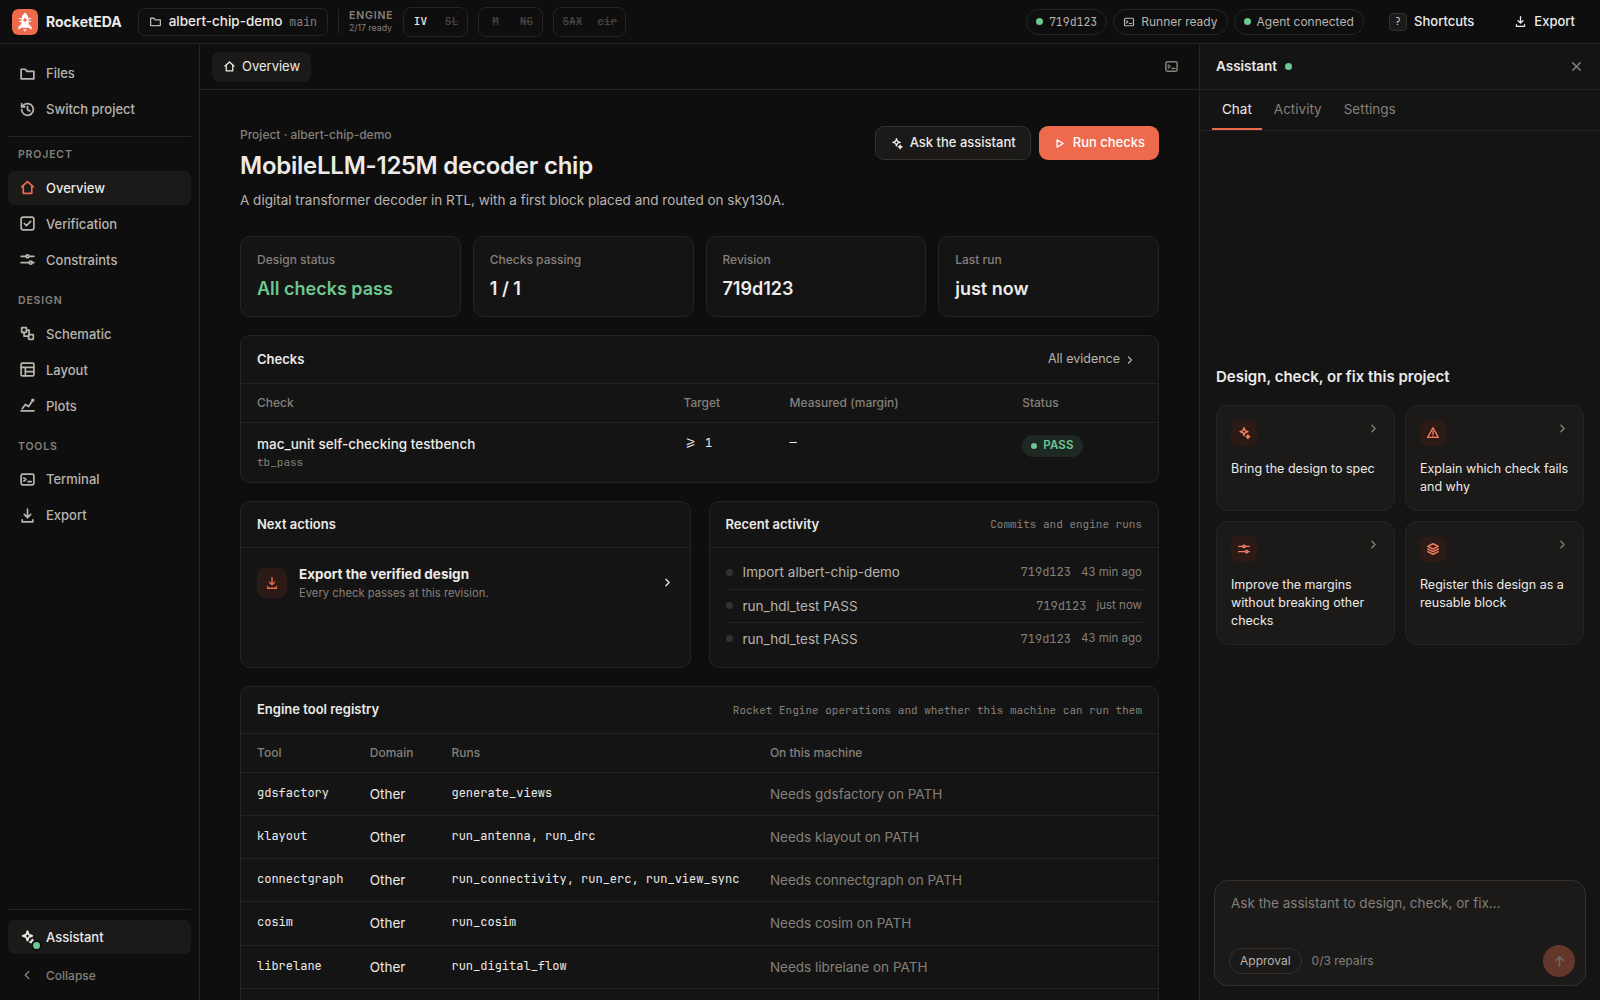
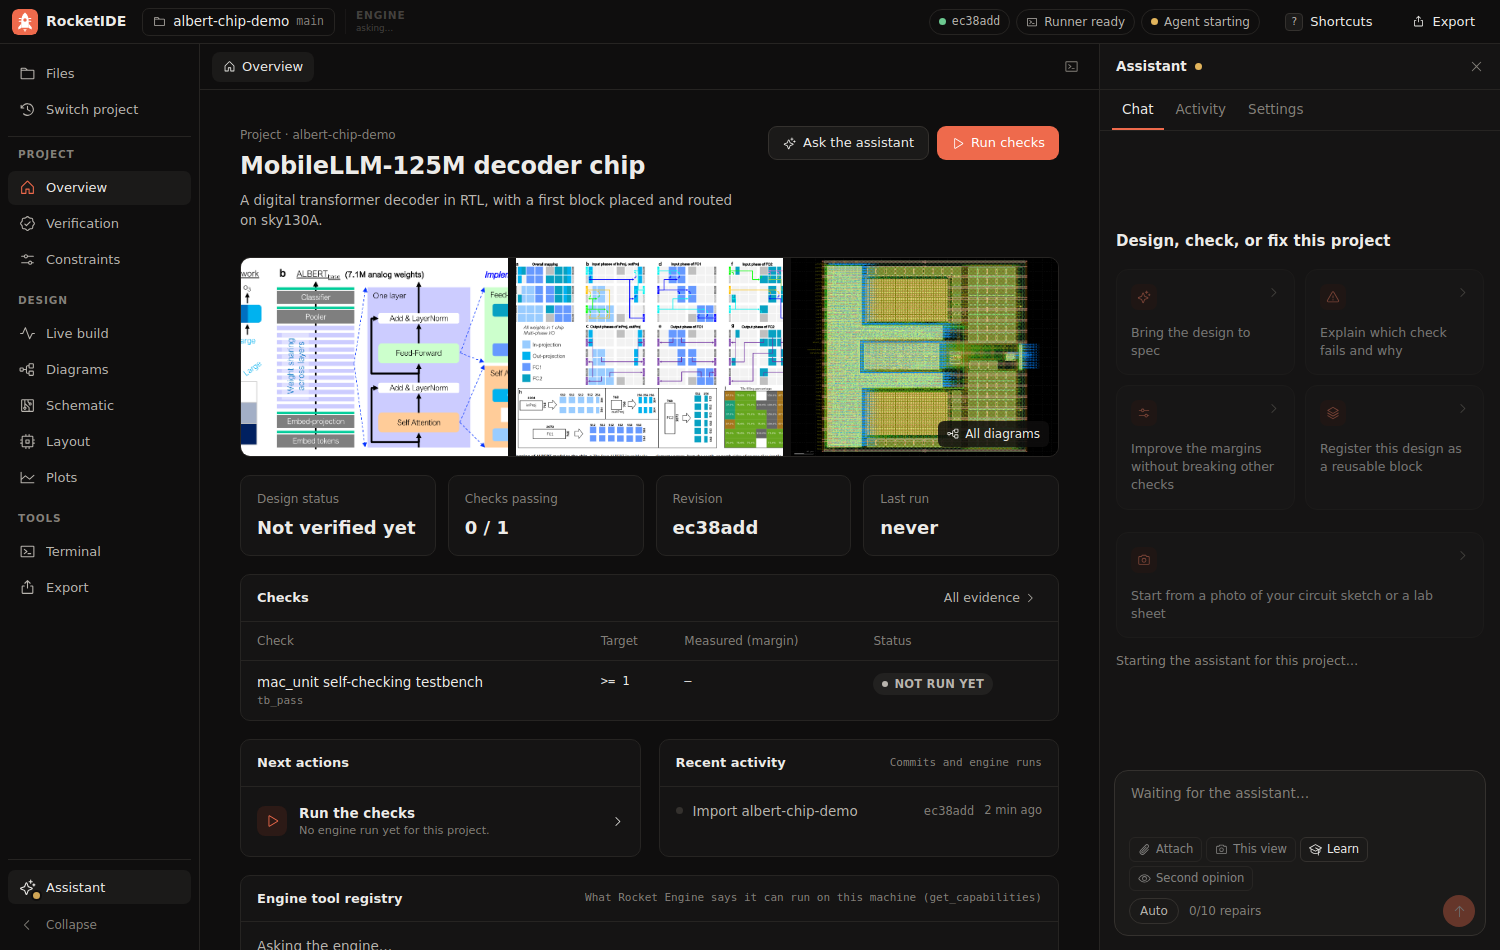
Show the current overview at the top of the README

diff --git a/README.md b/README.md
@@ -32,7 +32,7 @@ what the agent says.
 > agent runtime), ngspice, Icarus Verilog, Magic, KLayout, LibreLane and the sky130A PDK.
 
 <p align="center">
-  <img src="docs/images/overview.png" alt="RocketIDE on the MobileLLM decoder project: all checks pass, recent engine runs, and the assistant ready beside the workbench" width="100%">
+  <img src="docs/images/overview.png" alt="RocketIDE on the MobileLLM decoder project: its architecture diagrams and routed layout above the checks and recent activity, with the assistant beside the workbench" width="100%">
 </p>
 
 ## Who it's for
